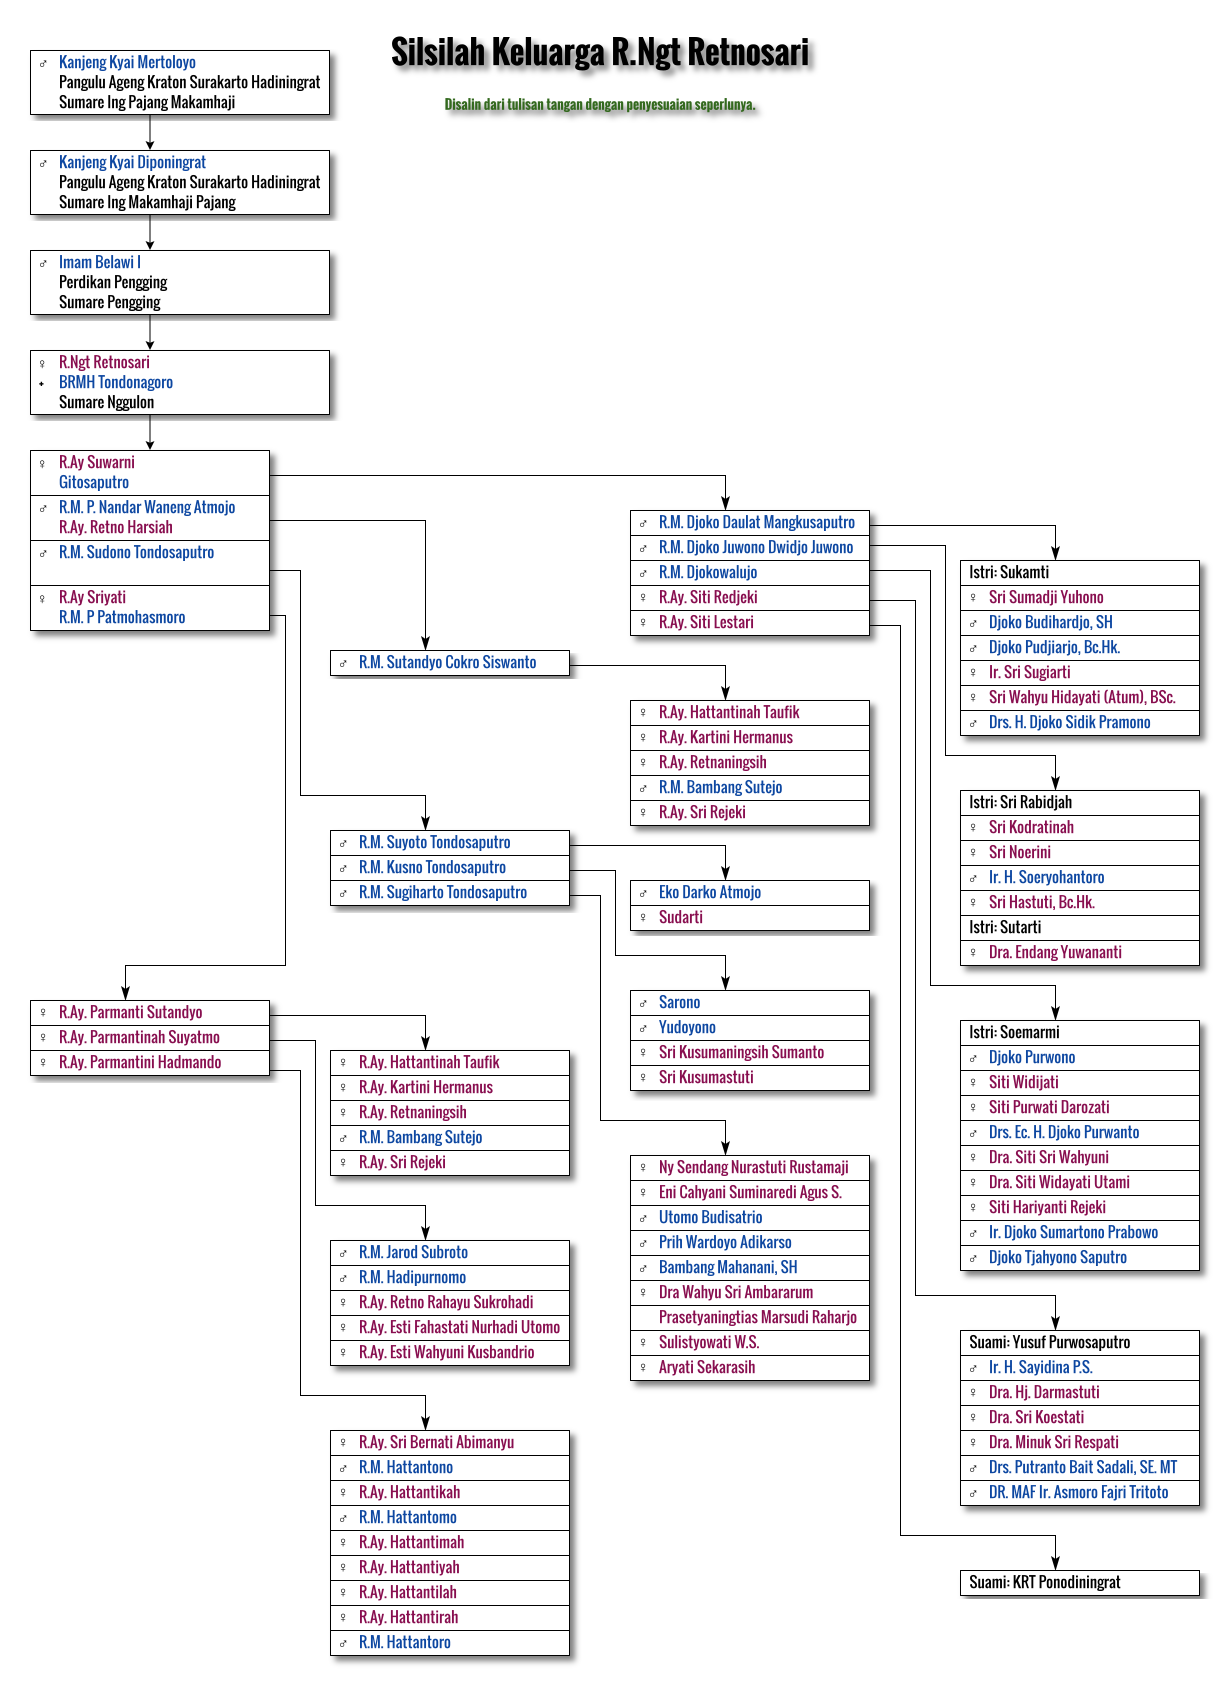
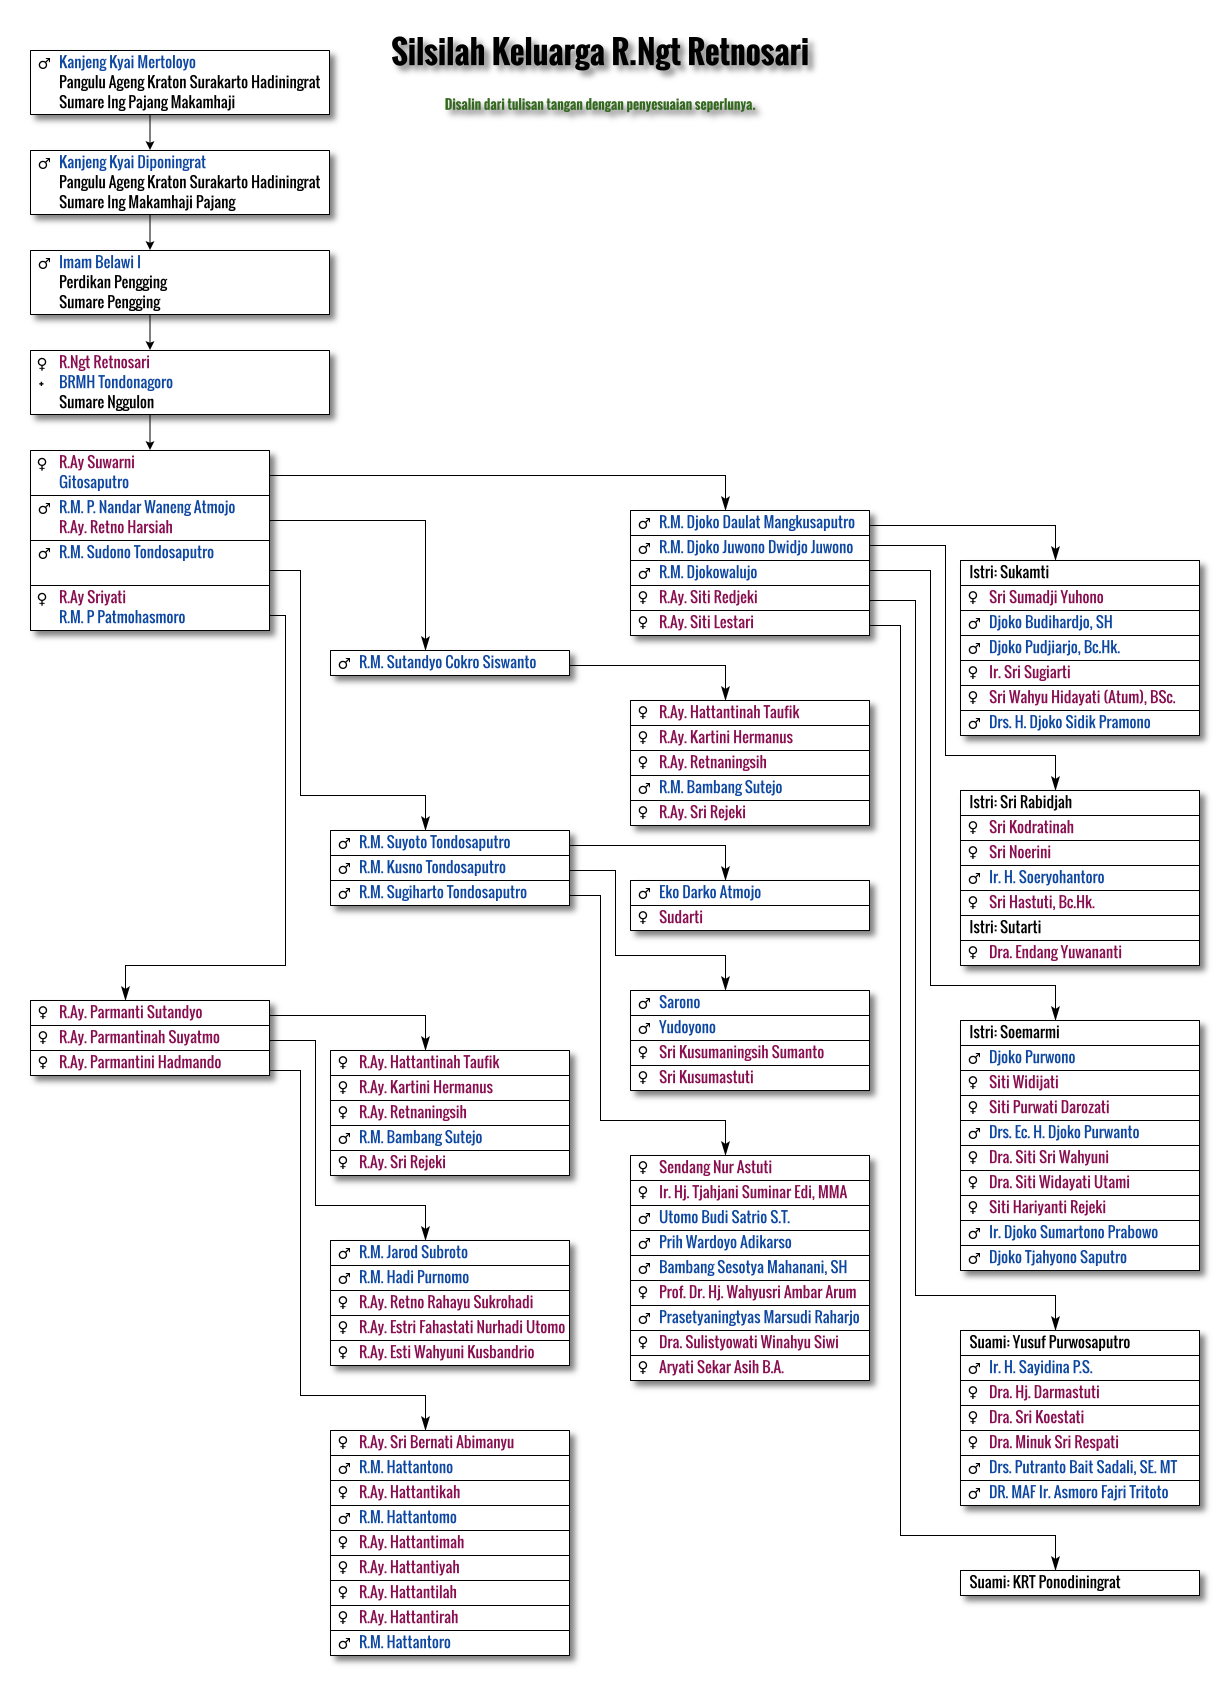
Artikel: Silsilah - Retnosari Tondonegoro: Revisi

diff --git a/_content/silsilah/2018-08-27-retnosari-tondonegoro.md b/_content/silsilah/2018-08-27-retnosari-tondonegoro.md
@@ -203,15 +203,15 @@ Diagram sengaja saya bikin dalam bentuk kompak supaya tidak terlalu besar.
 │   └── Anak: ♀ Sri Kusumastuti
 │
 └── Anak: ♂ R.M. Sugiharto Tondosaputro
-    ├── Anak: ♀ Ny Sendang Nurastuti Rustamaji
-    ├── Anak: ♀ Eni Cahyani Suminaredi Agus S.
-    ├── Anak: ♂ Utomo Budisatrio
+    ├── Anak: ♀ Sendang Nur Astuti
+    ├── Anak: ♀ Ir. Hj. Tjahjani Suminar Edi, MMA
+    ├── Anak: ♂ Utomo Budi Satrio S.T.
     ├── Anak: ♂ Prih Wardoyo Adikarso
-    ├── Anak: ♂ Bambang Mahanani, SH
-    ├── Anak: ♀ Dra Wahyu Sri Ambararum
-    ├── Anak: ? Prasetyaningtias Marsudi Raharjo
-    ├── Anak: ♀ Sulistyowati W.S.
-    └── Anak: ♀ Aryati Sekarasih
+    ├── Anak: ♂ Bambang Sesotya Mahanani, SH
+    ├── Anak: ♀ Prof. Dr. Hj. Wahyusri Ambar Arum M.A. Ed.
+    ├── Anak: ♂ Ir. Prasetyaningtyas Marsudi Raharjo
+    ├── Anak: ♀ Dra. Sulistyowati Winahyu Siwi
+    └── Anak: ♀ Aryati Sekar Asih B.A.
 {% endhighlight %}
 
 ### R.Ay Sriyati
@@ -230,10 +230,10 @@ Diagram sengaja saya bikin dalam bentuk kompak supaya tidak terlalu besar.
 │
 ├── Anak: ♀ R.Ay. Parmantinah Suyatmo
 │   ├── Anak: ♂ R.M. Jarod Subroto
-│   ├── Anak: ♂ R.M. Hadipurnomo
+│   ├── Anak: ♂ R.M. Hadi Purnomo
 │   ├── Anak: ♀ R.Ay. Retno Rahayu Sukrohadi
-│   ├── Anak: ♀ R.Ay. Esti Fahastati Nurhadi Utomo
-│   └── Anak: ♀ R.Ay. Esti Wahyuni Kusbandrio
+│   ├── Anak: ♀ R.Ay. Estri Fahastati Nurhadi Utomo
+│   └── Anak: ♀ R.Ay. Esti Wahyuni Kusbandriyo
 │
 └── Anak: ♀ R.Ay. Parmantini Hadmando
     ├── Anak: ♀ R.Ay. Sri Bernati Abimanyu
